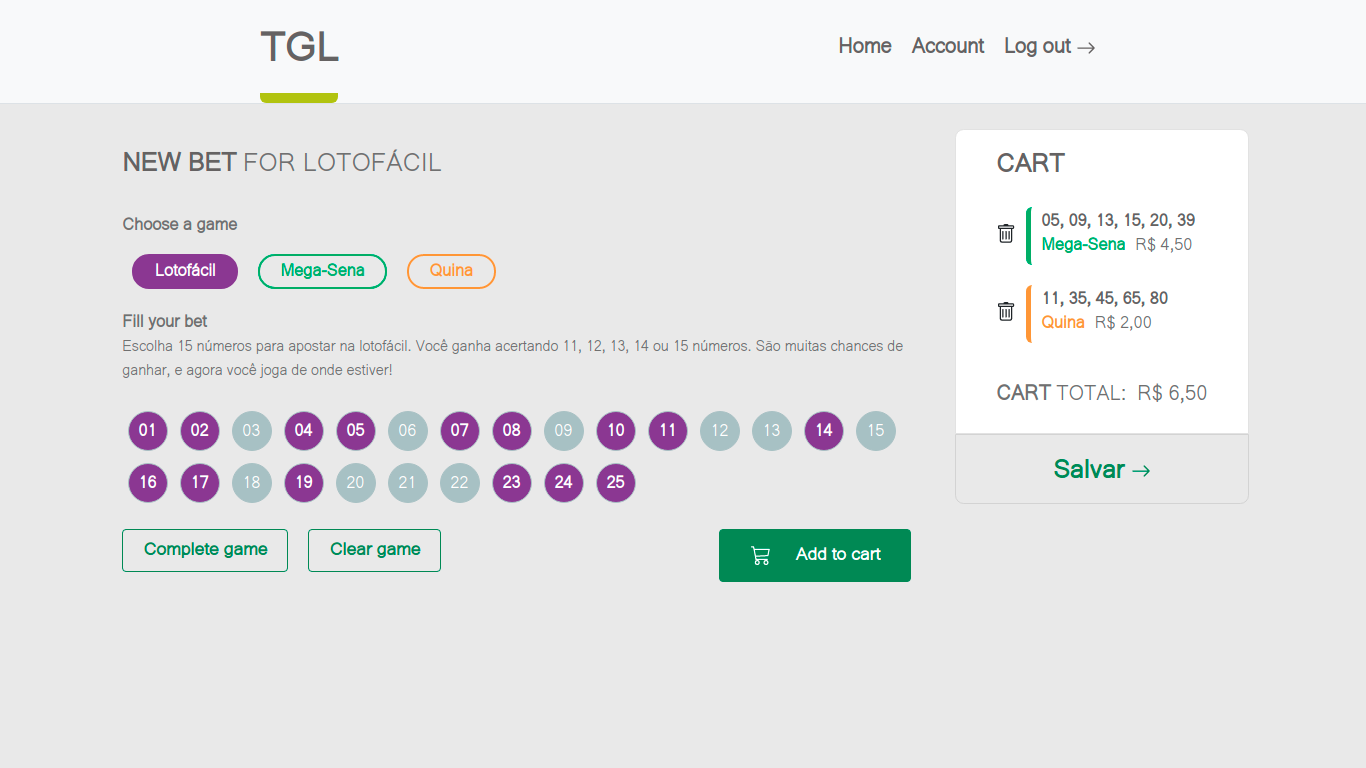
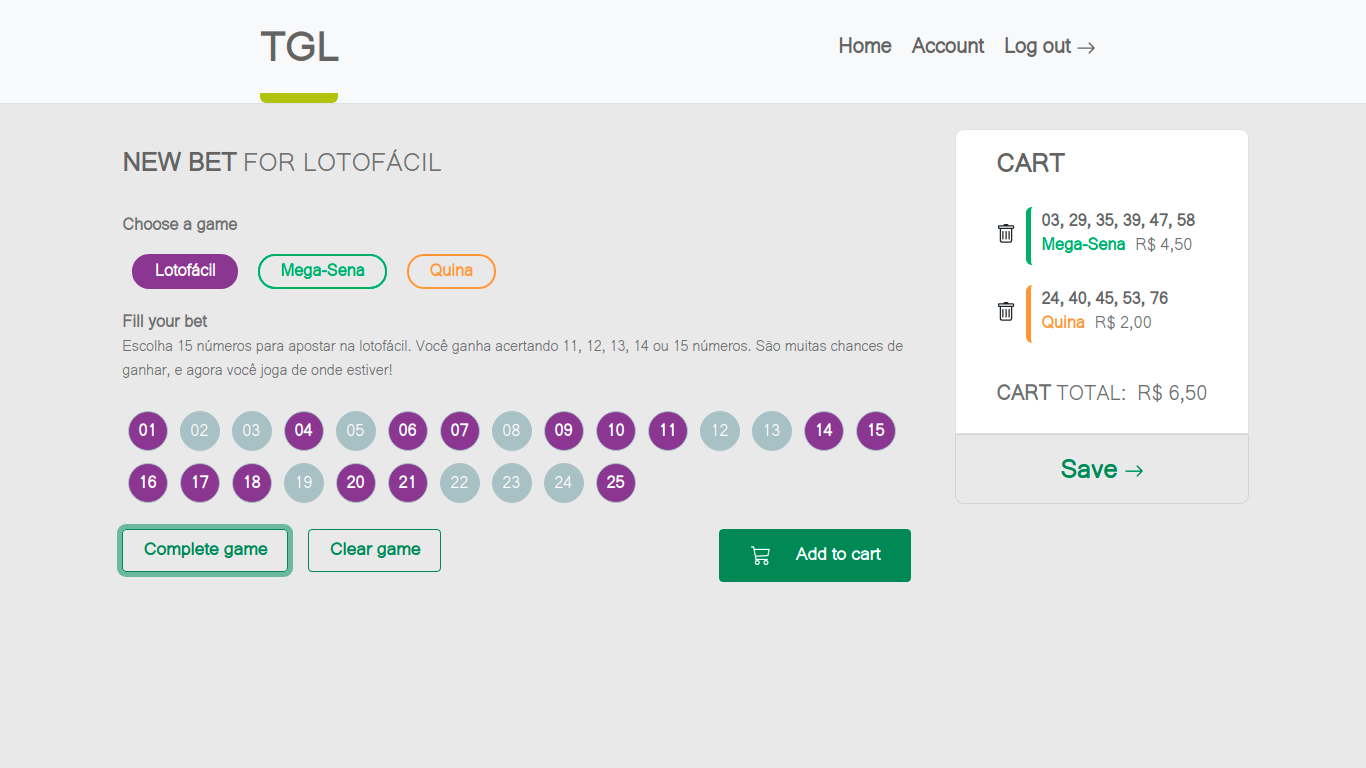
fix: button with language different.

diff --git a/view/index.html b/view/index.html
@@ -87,7 +87,7 @@
             </div>
             <div class="d-flex justify-content-center align-items-center pt-3 pb-2 fw-bold btnSave">
               <a href="#" class="text-success fs-5">
-                Salvar
+                Save
                 <svg xmlns="http://www.w3.org/2000/svg" width="16" height="16" fill="currentColor" class="bi bi-arrow-right" viewBox="0 0 16 16">
                   <path fill-rule="evenodd" d="M1 8a.5.5 0 0 1 .5-.5h11.793l-3.147-3.146a.5.5 0 0 1 .708-.708l4 4a.5.5 0 0 1 0 .708l-4 4a.5.5 0 0 1-.708-.708L13.293 8.5H1.5A.5.5 0 0 1 1 8z"/>
                 </svg>
